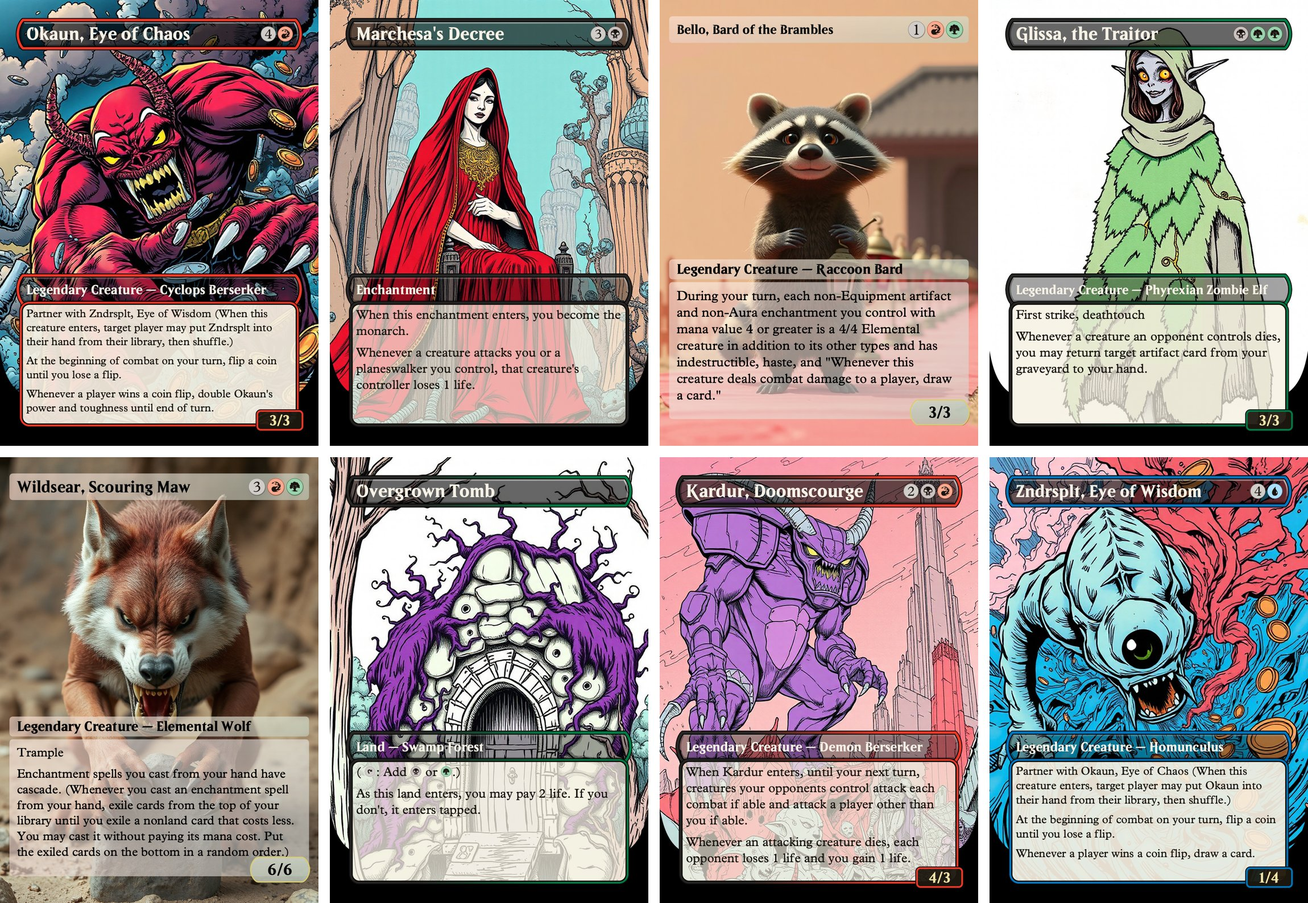
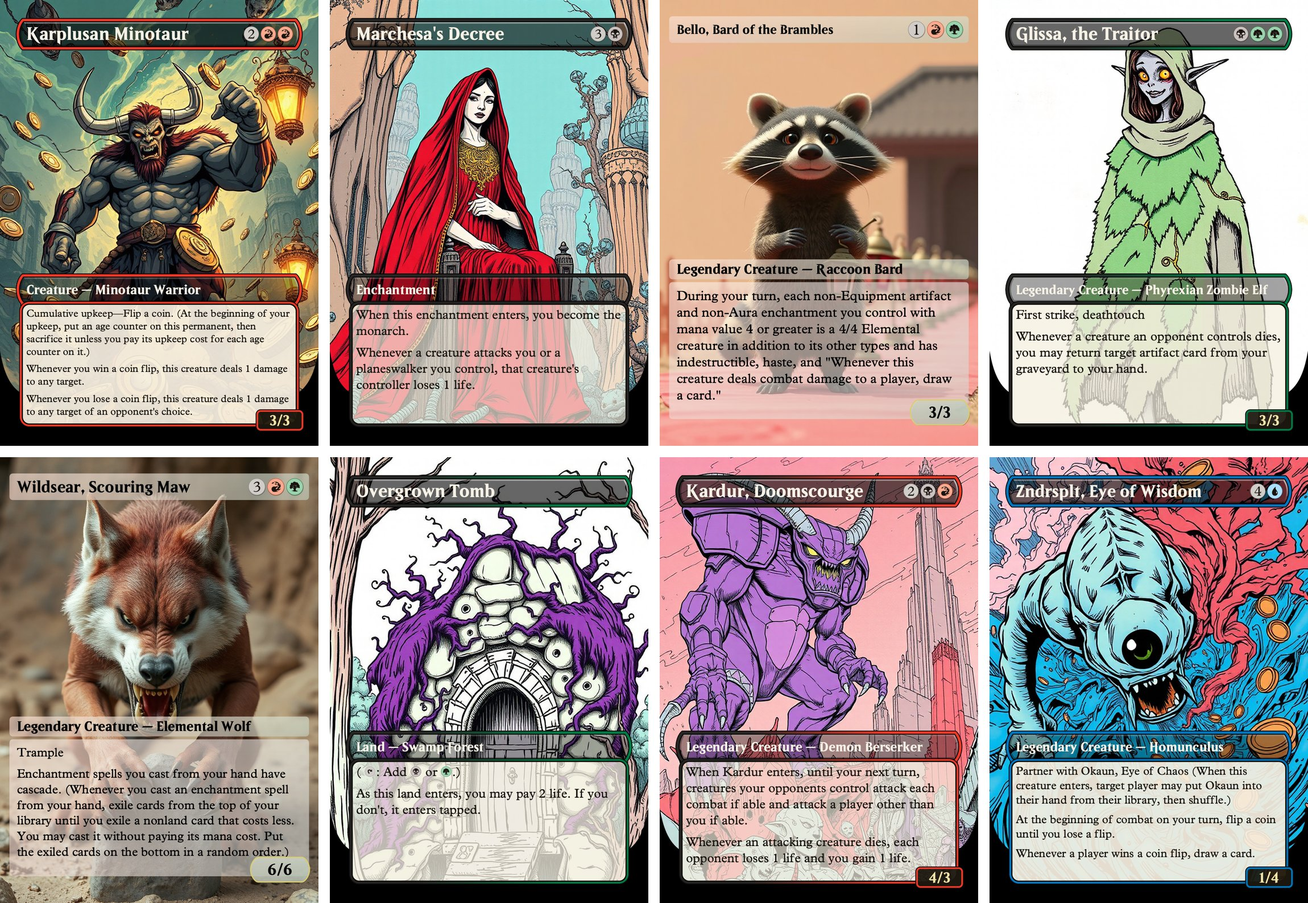
docs(readme): gallery audit — every featured card shows its named subject
Okaun was drawn with two eyes and is out; Karplusan Minotaur leads the comic
row. Niv-Mizzet's render hid invented children under the text box and is out.
Yusri's efreet was a firebird, Massacre Wurm had legs, Sidisi had wings, and
Reckoner Bankbuster was a gramophone on a pillar; Krark, Desolate Lighthouse,
Filigree Familiar and Junk Diver replace them.

Claude-Session: https://claude.ai/code/session_01CL91K3Fs5QZTnbko5qqosT

Changed region(s): [[0.0, 0.0, 0.247, 0.4628]]

diff --git a/README.md b/README.md
@@ -43,13 +43,13 @@ In the app: click **Import** and paste your decklist, add three to five referenc
   <source media="(prefers-color-scheme: dark)" srcset="docs/images/samples-picturebook-dark.jpg">
   <img alt="Picture-book pen and ink style — five generated cards" src="docs/images/samples-picturebook.jpg">
 </picture></p>
-<p align="center"><em>Picture-book pen and ink — a treehouse library, a tutor buried in books, a pact signed at a door under falling paper, a roaring purple wurm, a winged zombie snake</em></p>
+<p align="center"><em>Picture-book pen and ink — a treehouse library, a tutor buried in books, a pact signed at a door under falling paper, a clockwork fox, a scrap-diving bird in rainbow feathers</em></p>
 
 <p align="center"><picture>
   <source media="(prefers-color-scheme: dark)" srcset="docs/images/samples-comic-dark.jpg">
   <img alt="Comic-book ink style — five generated cards" src="docs/images/samples-comic.jpg">
 </picture></p>
-<p align="center"><em>Comic-book ink — teal-and-coral smoke: a goblin in her workshop, a pyromancer's ignition, a phoenix over the waves, a crater blowing its top, a dragon wizard on the wing</em></p>
+<p align="center"><em>Comic-book ink — teal-and-coral smoke: a goblin in her workshop, a pyromancer's ignition, a goblin wizard with a coin to flip, a crater blowing its top, a lighthouse under a green moon</em></p>
 
 <p align="center"><picture>
   <source media="(prefers-color-scheme: dark)" srcset="docs/images/samples-filmstill-dark.jpg">
